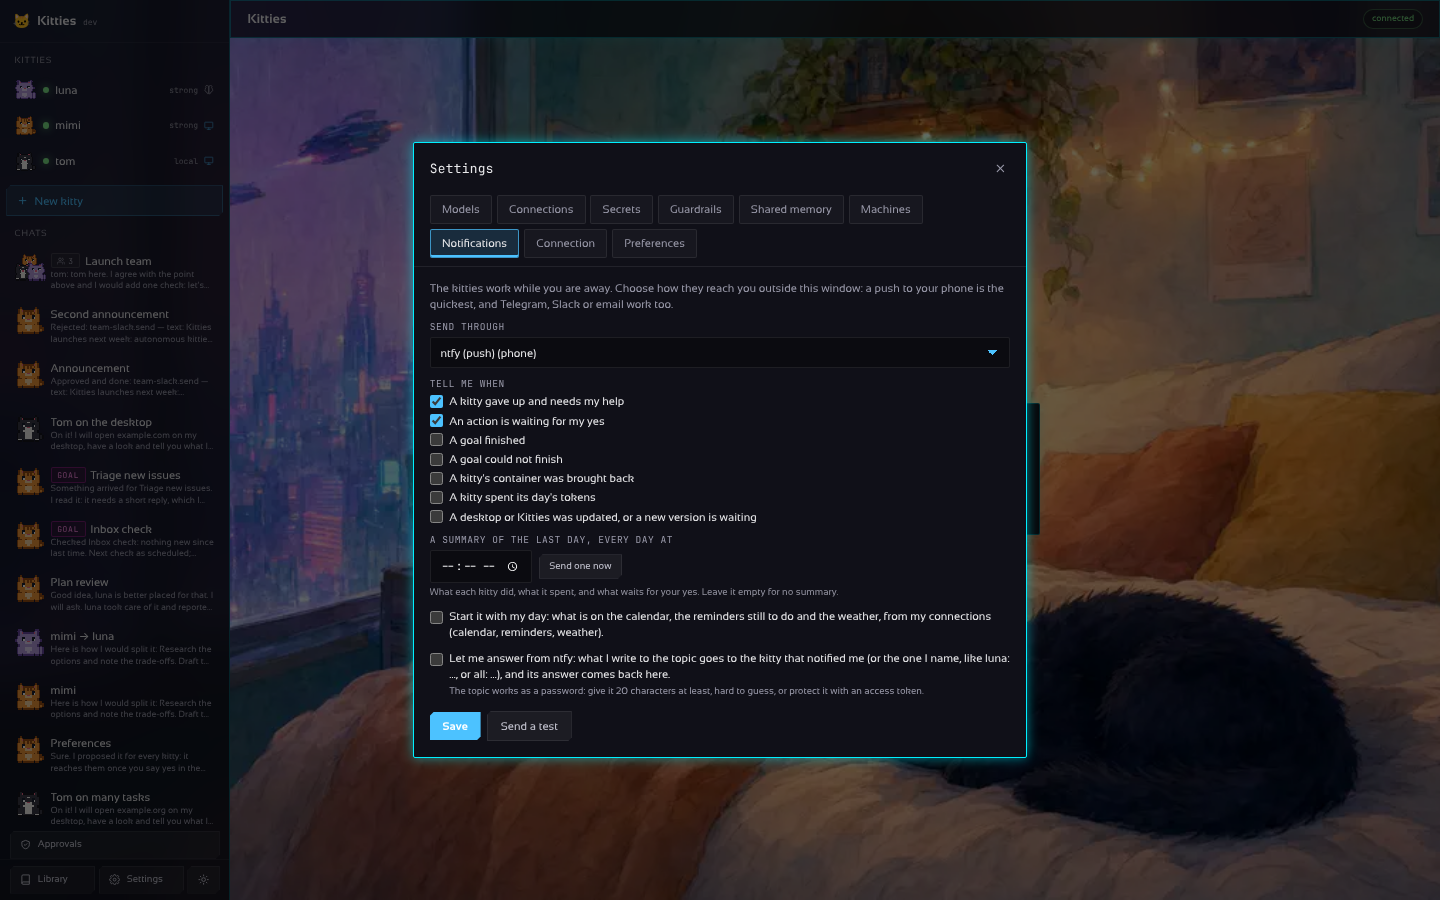
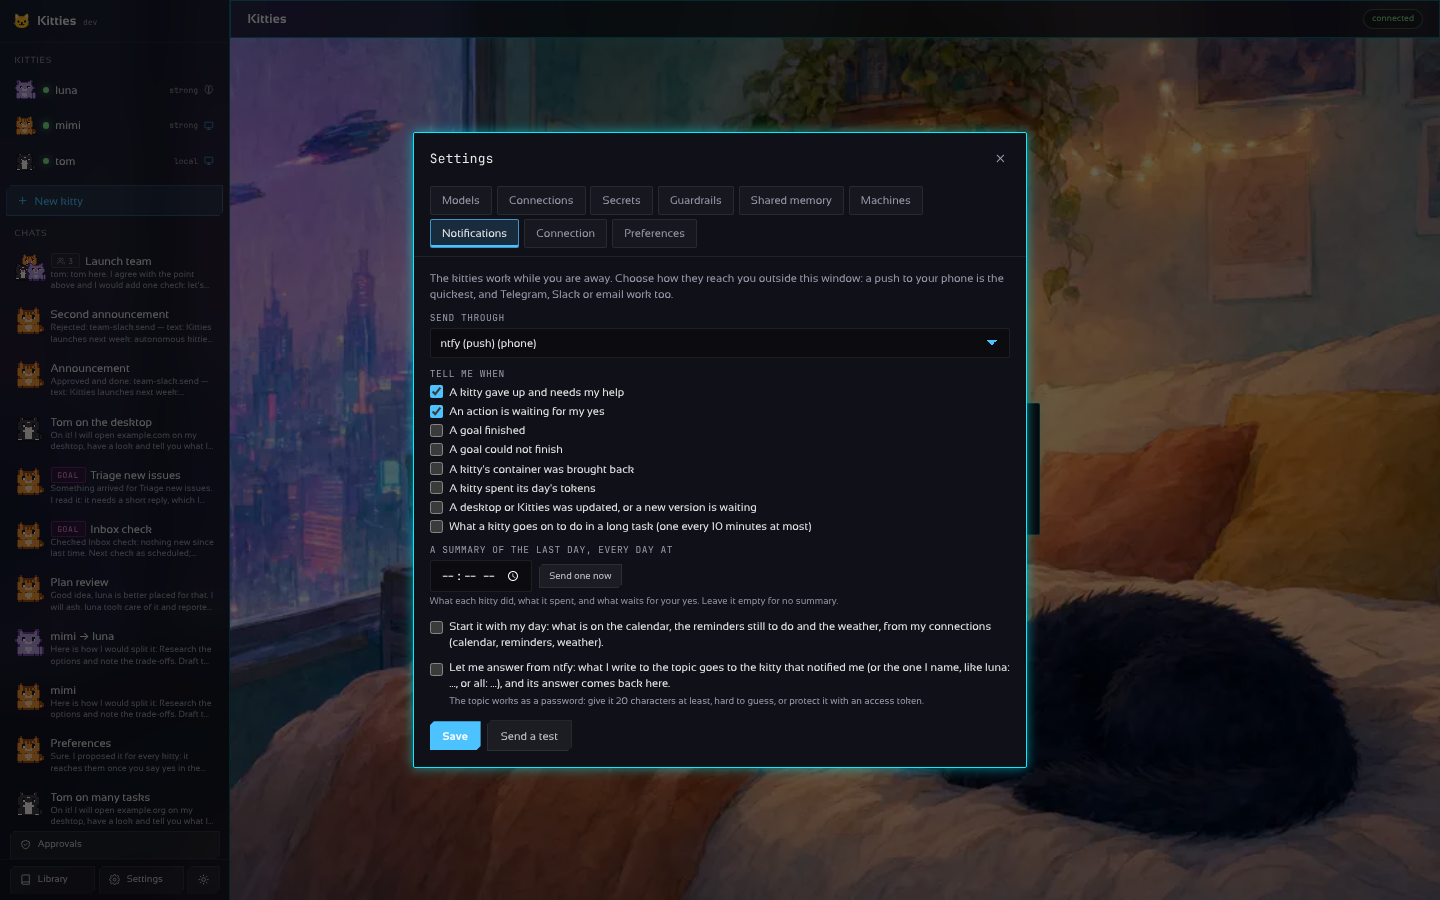
docs: describe task progress, the unfolded preference and the help step
Claude-Session: https://claude.ai/code/session_017Z7sUdA6v5pXWi2AbyadHW

Changed region(s): [[0.2812, 0.1244, 0.7188, 0.8711], [0.4688, 0.2178, 0.625, 0.2489]]

diff --git a/docs/WHATSAPP.md b/docs/WHATSAPP.md
@@ -52,8 +52,9 @@ session, without a new code. **Unlink** removes the device from the phone and fo
 - **One chat per number.** The first message of a number opens a chat titled `WhatsApp: <name>`
   with the chosen kitty; the next ones go to the same chat, so you see the whole conversation on the
   page too. The kitty's answer goes back to WhatsApp, with its Markdown turned into WhatsApp's own
-  marks (`*bold*`, `_italics_`). A desktop task is followed: the first words go at once and the
-  result when it is done.
+  marks (`*bold*`, `_italics_`). A desktop task is followed: the first words go at once, then
+  each line the kitty writes about what it goes on to do (`⏳ …`, a minute apart at least, the newest
+  when several came meanwhile), and the result when it is done.
 - **Read, and reactions.** A message is marked read (blue ticks) when the kitty starts on it. An
   answer that is only an emoji goes as a reaction to the message, and the kitties can react with
   the connector.

diff --git a/docs/DESKTOP.md b/docs/DESKTOP.md
@@ -140,7 +140,9 @@ kept twice. A task reads as the short lines the kitty writes when it moves on to
 each with its actions folded under how many they were; a tap opens them one by one. The chat
 follows the latest line while you are at its end; scroll up to read and it waits, with a button to
 go back to the latest. The picture has no hint over it: a click on it, or the Take control button,
-takes the controls.
+takes the controls. A call for help never folds away, and **Settings › Preferences › Show every action
+of a task** has every task open action by action in this browser. Away from the page, a long task's
+lines reach WhatsApp as they come and, when chosen, the notifications (`progress`).
 The sidebar folds to a thin bar (remembered in the browser), starts folded on a phone, where it
 stacks under the picture, and never takes the keys or the sound from the desktop: typing in it is
 typing in the chat, and the controls of the picture stay where they were.

diff --git a/docs/WHATSAPP.es.md b/docs/WHATSAPP.es.md
@@ -54,8 +54,9 @@ olvida la sesión.
 - **Un chat por número.** El primer mensaje de un número abre un chat `WhatsApp: <nombre>` con el
   kitty elegido; los siguientes van al mismo chat, así que también ves la conversación en la página.
   La respuesta vuelve a WhatsApp con su Markdown convertido a las marcas de WhatsApp (`*negrita*`,
-  `_cursiva_`). Una tarea en el escritorio se sigue: las primeras palabras van al tiro y el resultado
-  cuando termina.
+  `_cursiva_`). Una tarea en el escritorio se sigue: las primeras palabras van al tiro, luego
+  cada frase en que el kitty dice lo que va a hacer (`⏳ …`, con un minuto entre una y otra como
+  mínimo, la más nueva si llegaron varias) y el resultado cuando termina.
 - **Leído y reacciones.** Un mensaje se marca como leído (ticks azules) cuando el kitty lo toma. Una
   respuesta que es solo un emoji va como reacción al mensaje, y los kitties pueden reaccionar con
   el conector.

diff --git a/docs/ARCHITECTURE.md b/docs/ARCHITECTURE.md
@@ -259,8 +259,9 @@ yes runs it and counts it. `MemoryView.Spent` shows today's counts in the kitty'
 
 **Notifications** (`internal/notify`). A `Notifier` sends through any connector that can send a
 message (ntfy preferred, with a click link to the page), for the events `help`, `approval`,
-`goal_done`, `goal_blocked`, `recovered` and `budget`. Events of the same kind within ten minutes fold into
-one message. The choice is kept in `settings.json` over the YAML's `notify`; deleting the
+`goal_done`, `goal_blocked`, `recovered`, `budget`, `updated` and `progress` (what a kitty says it goes
+on to do in a long desktop task: its plan lines after the first, off unless chosen). Events of the
+same kind within ten minutes fold into one message. The choice is kept in `settings.json` over the YAML's `notify`; deleting the
 connector clears it.
 
 **Replies** (`internal/reply`). With `notify.replies` on an ntfy connector, `reply.Service.Listen`

diff --git a/docs/DESKTOP.es.md b/docs/DESKTOP.es.md
@@ -69,7 +69,10 @@ Corre en segundo plano. En el chat la tarea se lee en frases cortas que la kitty
 algo nuevo ("Abro el navegador y busco vuelos a Lima": qué hace y para qué, nunca los clics), cada
 una con sus acciones plegadas bajo cuántas fueron; un toque las abre una por una, con su captura. El
 chat sigue lo último mientras estás al final; si subes para leer, espera y ofrece un botón para
-volver a lo último. Una tarea tiene límites
+volver a lo último. Un pedido de ayuda nunca se pliega, y **Ajustes › Preferencias › Mostrar cada
+acción de una tarea** deja todas las tareas abiertas acción por acción en este navegador. Fuera de la
+página, las frases de una tarea larga llegan por WhatsApp a medida que salen y, si lo eliges, por las
+notificaciones (`progress`). Una tarea tiene límites
 (tiempo, rondas, tokens) y se puede cancelar en cualquier momento.
 
 ## Mirar sin imagen

diff --git a/docs/AUTONOMY.md b/docs/AUTONOMY.md
@@ -206,7 +206,7 @@ kitties:
     approvals: ask               # empty (default): acts as far as the account allows | ask
 notify:
   connector: phone               # any messaging connector; ntfy pushes to your phone
-  on: [help, approval, goal_done, goal_blocked, recovered, budget]   # default: help, approval
+  on: [help, approval, goal_done, goal_blocked, recovered, budget, progress]   # default: help, approval; progress: a long task's plan lines, one every 10 minutes at most
   digest: "08:30"                # a summary of the last day, every day (gateway's clock); empty: none
   replies: true                  # answer the kitties by writing to the ntfy topic
 connectors:
